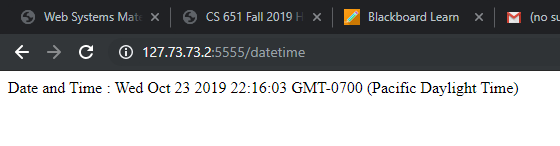
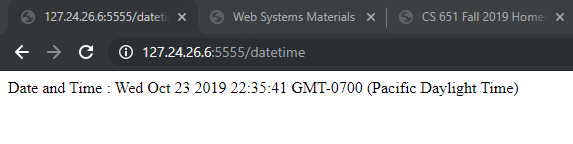
alrightt

diff --git a/practice/combineServer.js b/practice/combineServer.js
@@ -1,7 +1,7 @@
 var express = require('express');
 var app = express();
 port = 1120;
-host = '127.73.73.11'; // Any loopback address
+host = '127.20.26.10'; // Any loopback address
 app.listen(port, host, function () {
   console.log(`Example app listening on IPv4: ${host}:${port}`);
 });

diff --git a/practice/netIDServer.js b/practice/netIDServer.js
@@ -1,7 +1,7 @@
 var express = require('express');
 var app = express();
 port = 5110;
-host = '127.73.73.42'; // Any loopback address
+host = '127.14.20.26'; // Any loopback address
 app.listen(port, host, function () {
   console.log(`Example app listening on IPv4: ${host}:${port}`);
 });

diff --git a/practice/dateServer.js b/practice/dateServer.js
@@ -1,7 +1,7 @@
 var express = require('express');
 var app = express();
 port = 5555;
-host = '127.73.73.2'; // Any loopback address
+host = '127.24.26.6'; // Any loopback address
  app.listen(port, host, function () {
   console.log(`Example app listening on IPv4: ${host}:${port}`);
 });

diff --git a/README.md b/README.md
@@ -89,7 +89,16 @@ Fragement: -
 
 (b) 
 
-![3](images/6.PNG)
-![3](images/5.PNG)
+![3](images/3.PNG)
+![3b](images/6.PNG)
+![3bb](images/5.PNG)
+
+(c)
+
+![3](images/3.PNG)
+![3c](images/7.PNG)
+![3cc](images/8.PNG)
+
+
 
 
